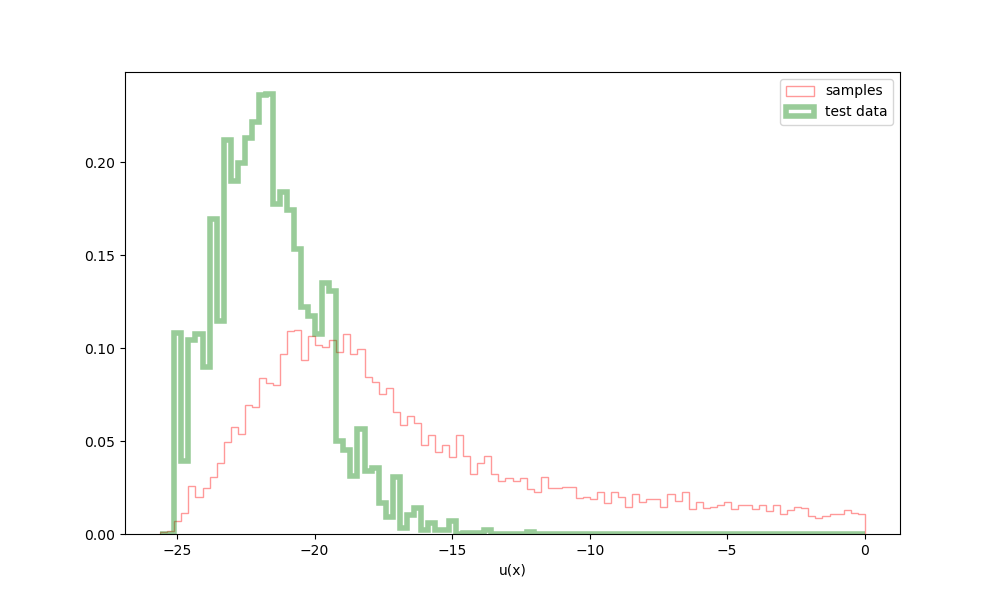
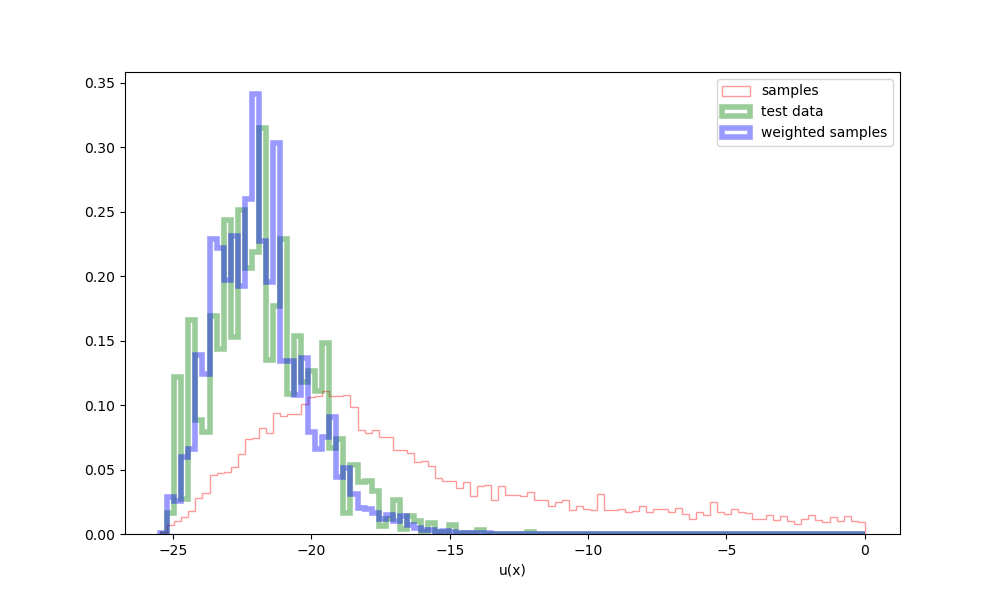
new images

diff --git a/eval_and_plot.py b/eval_and_plot.py
@@ -108,19 +108,17 @@ def plot_generating_flow(args, data, flow, prior, target):
     samples = 10000
     latent = prior.sample(size=[samples, 4, 2], device=device)
     #latent = prior.sample(500)
-    if 'inner' in args.model:
-        x, dlogp = flow(latent, brute_force=True, inverse=True)
-    else:
-        x, dlogp = flow(latent, brute_force=False, inverse=True)
+    x, dlogp = flow(latent, brute_force=False, inverse=True)
 
     x = x.view(samples, -1)
     latent = latent.view(samples, -1)
+
     energies_data = target.energy(data[:samples]).numpy()
     energies_bg = target.energy(x).cpu().detach().view(-1).numpy()
-    # energies_prior = target.energy(latent).cpu().detach().numpy()
+    energies_prior = target.energy(latent).cpu().detach().numpy()
     min_energy = min(energies_data.min(), energies_bg.min())
 
-    # log_w = target.energy(x).view(-1) - prior.energy(latent).view(-1) + dlogp.view(-1)
+    # log_w = target.energy(x).view(-1) - prior(latent.view(samples, 4, 2)).view(-1) + dlogp.view(-1)
     # log_w = log_w.view(-1).cpu().detach()
 
     # plt.hist(log_w, bins=100, density=True, )
